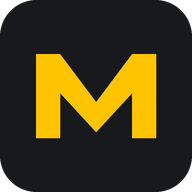
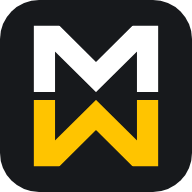
feat: add initial UI components, layout shell, and global styles

diff --git a/maqnow/src/components/Logo.jsx b/maqnow/src/components/Logo.jsx
@@ -1,0 +1,44 @@
+import React, { useId } from 'react';
+
+// Logotipo MAQNOW. El símbolo es una M sobre una W: la misma pieza girada 180°.
+// El nombre está dibujado con el mismo sistema (trazo único, cortes planos).
+const HALF = '5.5,60 5.5,0 32,26.26 58.5,0 58.5,60';
+const M = '5.5,80 5.5,0 30,40 54.5,0 54.5,80';
+
+export function LogoMark({ className = '', title }) {
+  const id = useId();
+  return (
+    <svg className={`logo-mark ${className}`} viewBox="0 0 64 72" role={title ? 'img' : undefined} aria-label={title} aria-hidden={title ? undefined : true} focusable="false">
+      <clipPath id={id}><rect width="64" height="34" /></clipPath>
+      <g fill="none" strokeWidth="11" strokeMiterlimit="20">
+        <polyline clipPath={`url(#${id})`} points={HALF} stroke="currentColor" />
+        <g transform="translate(64 72) rotate(180)"><polyline className="now" clipPath={`url(#${id})`} points={HALF} /></g>
+      </g>
+    </svg>
+  );
+}
+
+export function LogoWord({ className = '', title }) {
+  const id = useId();
+  return (
+    <svg className={`logo-word ${className}`} viewBox="0 0 379 60" role={title ? 'img' : undefined} aria-label={title} aria-hidden={title ? undefined : true} focusable="false">
+      <clipPath id={id}><rect width="379" height="60" /></clipPath>
+      <g clipPath={`url(#${id})`} fill="none" strokeWidth="11" strokeMiterlimit="20">
+        <g stroke="currentColor">
+          <polyline points={M} />
+          <g transform="translate(69 0)"><polyline points="-2,70 28,-6 58,70" /><line x1="12" y1="42" x2="44" y2="42" /></g>
+          <g transform="translate(134 0)"><rect x="5.5" y="5.5" width="41" height="49" rx="17" /><line x1="30" y1="36" x2="52" y2="66" /></g>
+        </g>
+        <g className="now">
+          <polyline transform="translate(195 0)" points="5.5,80 5.5,0 48.5,60 48.5,-20" />
+          <rect x="263.5" y="5.5" width="41" height="49" rx="17" />
+          <g transform="translate(379 60) rotate(180)"><polyline points={M} /></g>
+        </g>
+      </g>
+    </svg>
+  );
+}
+
+export function Logo() {
+  return (<><LogoMark /><LogoWord /></>);
+}

diff --git a/maqnow/src/pages/Landing.jsx b/maqnow/src/pages/Landing.jsx
@@ -1,4 +1,5 @@
 import React, { useEffect, useState } from 'react';
+import { Logo, LogoWord } from '../components/Logo';
 import { ArrowRight, ArrowUp, ArrowDown, Pause, Play, MessageCircle, Phone, Mail, Menu, X, Check, FileCheck2, Wrench, LogOut, BarChart3, Plus } from 'lucide-react';
 import { FAMILIES, familyById } from '../data/catalog';
 import { CONTACT } from '../data/providers';
@@ -49,7 +50,7 @@ export function Landing({ onAssistant }) {
   return (
     <div className={`landing ${ready ? 'ready' : ''}`}>
       <header className="lnav">
-        <a className="brand" href="#/" aria-label={`${SITE.name}, inicio`}><img src={`${import.meta.env.BASE_URL}logo-mark.svg`} alt="" width="28" height="28" />MAQ<span>NOW</span></a>
+        <a className="brand" href="#/" aria-label={`${SITE.name}, inicio`}><Logo /></a>
         <nav id="menu-web" aria-label="Secciones de la web" className={menu ? 'open' : ''} onClick={() => setMenu(false)}>
           <a href="#como">Cómo funciona</a>
           <a href="#maquinaria">Maquinaria</a>
@@ -241,6 +242,7 @@ export function Landing({ onAssistant }) {
       <footer className="lfoot">
         <div className="lfoot-top">
           <div className="lfoot-lead">
+            <a className="brand lfoot-brand" href="#/" aria-label="MAQNOW, inicio"><Logo /></a>
             <p>Busca. Compara. Alquila.</p>
             <span>La forma más rápida de pedir precio de maquinaria a todos los alquiladores de tu zona.</span>
             <div className="lfoot-cta">
@@ -269,7 +271,7 @@ export function Landing({ onAssistant }) {
             <span>Málaga y Costa del Sol. Lunes a viernes, de 7:00 a 19:00.</span>
           </div>
         </div>
-        <div className="lfoot-word" aria-hidden />
+        <LogoWord className="lfoot-word" />
         <div className="lfoot-bottom">
           <span>© {new Date().getFullYear()} MAQNOW</span>
           <span>Versión de demostración: precios, valoraciones y respuestas de proveedores son simulados. Fotografías de Unsplash.</span>

diff --git a/maqnow/src/styles.css b/maqnow/src/styles.css
@@ -103,20 +103,28 @@ small {
 .brand {
   display: inline-flex;
   align-items: center;
-  gap: 9px;
+  gap: 11px;
   font: 800 24px var(--display);
   text-decoration: none;
   letter-spacing: .01em;
   color: #fff;
 }
 
-.brand img {
-  width: 28px;
-  height: 28px;
+.brand .logo-mark {
+  height: 36px;
+  width: auto;
+  flex: none;
 }
 
-.brand span {
-  color: var(--yellow);
+.brand .logo-word {
+  height: 21px;
+  width: auto;
+  flex: none;
+}
+
+.logo-mark .now,
+.logo-word .now {
+  stroke: var(--yellow);
 }
 
 /* ---------- botones ---------- */
@@ -1627,30 +1635,33 @@ ul.plus {
   font-size: 14px;
 }
 
+.lfoot-brand {
+  margin-bottom: 26px;
+}
+
+.lfoot-brand .logo-mark {
+  height: 52px;
+}
+
+.lfoot-brand .logo-word {
+  height: 30px;
+}
+
 .lfoot-word {
-  font: 800 clamp(96px, 25vw, 400px)/.74 var(--display);
-  text-transform: uppercase;
-  text-align: center;
-  white-space: nowrap;
+  display: block;
+  width: min(100% - 2 * clamp(16px, 4vw, 48px), 1700px);
+  height: auto;
+  margin: clamp(40px, 6vw, 88px) auto clamp(20px, 3vw, 44px);
   color: var(--steel);
-  margin-top: clamp(40px, 6vw, 88px);
-  letter-spacing: -.01em;
-  user-select: none;
-  transition: color .5s;
 }
 
-.lfoot-word::before {
-  content: 'MAQ';
+.lfoot-word .now {
+  stroke: var(--steel-2);
+  transition: stroke .5s;
 }
 
-.lfoot-word::after {
-  content: 'NOW';
-  color: var(--steel-2);
-  transition: color .5s;
-}
-
-.lfoot:hover .lfoot-word::after {
-  color: var(--yellow);
+.lfoot:hover .lfoot-word .now {
+  stroke: var(--yellow);
 }
 
 .lfoot-bottom {
@@ -5189,13 +5200,23 @@ h3,
   }
 
   .brand {
-    font-size: 20px;
-    gap: 6px;
+    gap: 8px;
   }
 
-  .brand img {
-    width: 24px;
-    height: 24px;
+  .brand .logo-mark {
+    height: 30px;
+  }
+
+  .brand .logo-word {
+    height: 17px;
+  }
+
+  .lfoot-brand .logo-mark {
+    height: 44px;
+  }
+
+  .lfoot-brand .logo-word {
+    height: 25px;
   }
 
   .content {

diff --git a/maqnow/src/components/AppShell.jsx b/maqnow/src/components/AppShell.jsx
@@ -1,4 +1,5 @@
 import React, { useEffect, useState } from 'react';
+import { Logo } from './Logo';
 import {
   LayoutDashboard, PlusCircle, ClipboardList, Tags, Truck, Building2, CalendarClock, Wrench, FileCheck2, Receipt, Star, BarChart3,
   Briefcase, Bell, MessageCircle, LogOut, Menu, X, Warehouse, Users, Bot, Percent, Settings, HardHat, ShieldCheck, UserPlus, UserCog, Headset, Calculator,
@@ -52,7 +53,7 @@ export function AppShell({ s, page, children, onAssistant }) {
   return (
     <div className={`shell ${drawer ? 'drawer-open' : ''}`}>
       <aside className="side" id="menu-lateral" aria-label="Menú de la aplicación">
-        <a className="brand" href="#/" aria-label="MAQNOW, ir a la web"><img src={`${import.meta.env.BASE_URL}logo-mark.svg`} alt="" width="28" height="28" />MAQ<span>NOW</span></a>
+        <a className="brand" href="#/" aria-label="MAQNOW, ir a la web"><Logo /></a>
         <nav aria-label="Secciones">
           {groups.map(([group, items]) => (
             <div key={group || 'top'} className="side-group">

diff --git a/maqnow/src/pages/Auth.jsx b/maqnow/src/pages/Auth.jsx
@@ -1,4 +1,5 @@
 import React, { useState } from 'react';
+import { Logo } from '../components/Logo';
 import { ArrowLeft, HardHat, Truck, ShieldCheck, Eye, EyeOff, Check, Headset, Calculator } from 'lucide-react';
 import { FAMILIES, PROVINCES } from '../data/catalog';
 import { IMG } from '../data/images';
@@ -79,7 +80,7 @@ export function Auth({ mode = 'acceso', preset }) {
       <aside className="auth-side">
         <img src={IMG.auth} alt="" width="1400" height="933" decoding="async" onError={(e) => { e.currentTarget.style.display = 'none'; }} />
         <div>
-          <a className="brand" href="#/"><img src={`${import.meta.env.BASE_URL}logo-mark.svg`} alt="" width="28" height="28" />MAQ<span>NOW</span></a>
+          <a className="brand" href="#/" aria-label="MAQNOW, inicio"><Logo /></a>
           <p>Tú nos dices qué necesitas. Nosotros buscamos quién la tiene disponible, comparamos precio y condiciones, y tú eliges.</p>
         </div>
       </aside>
